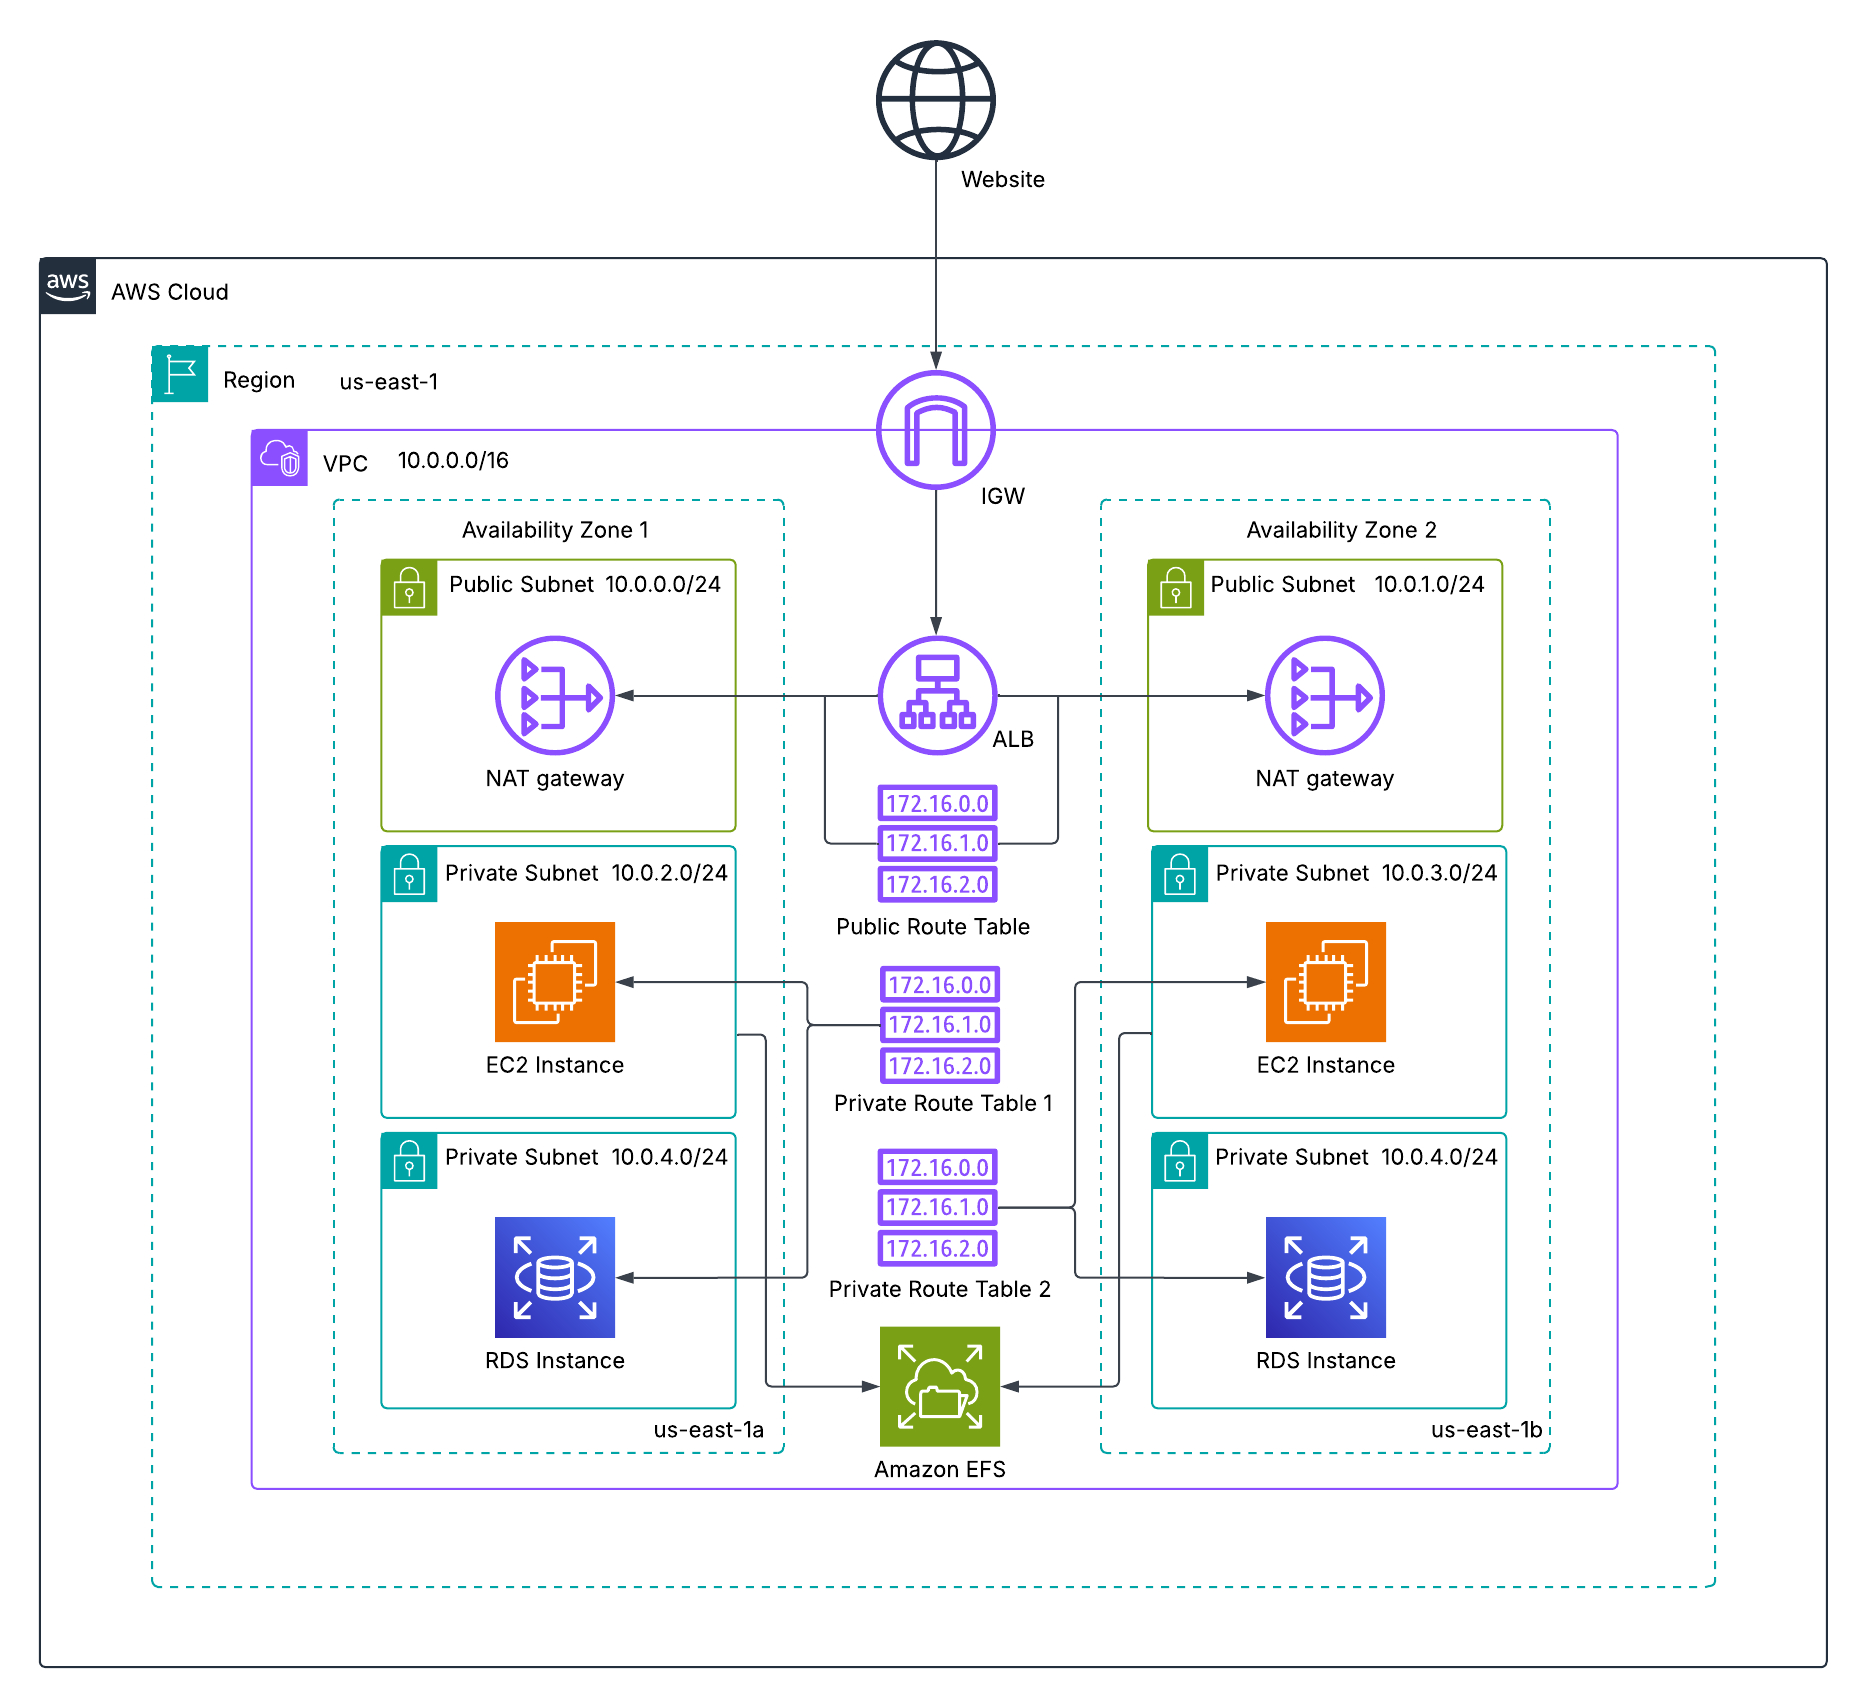
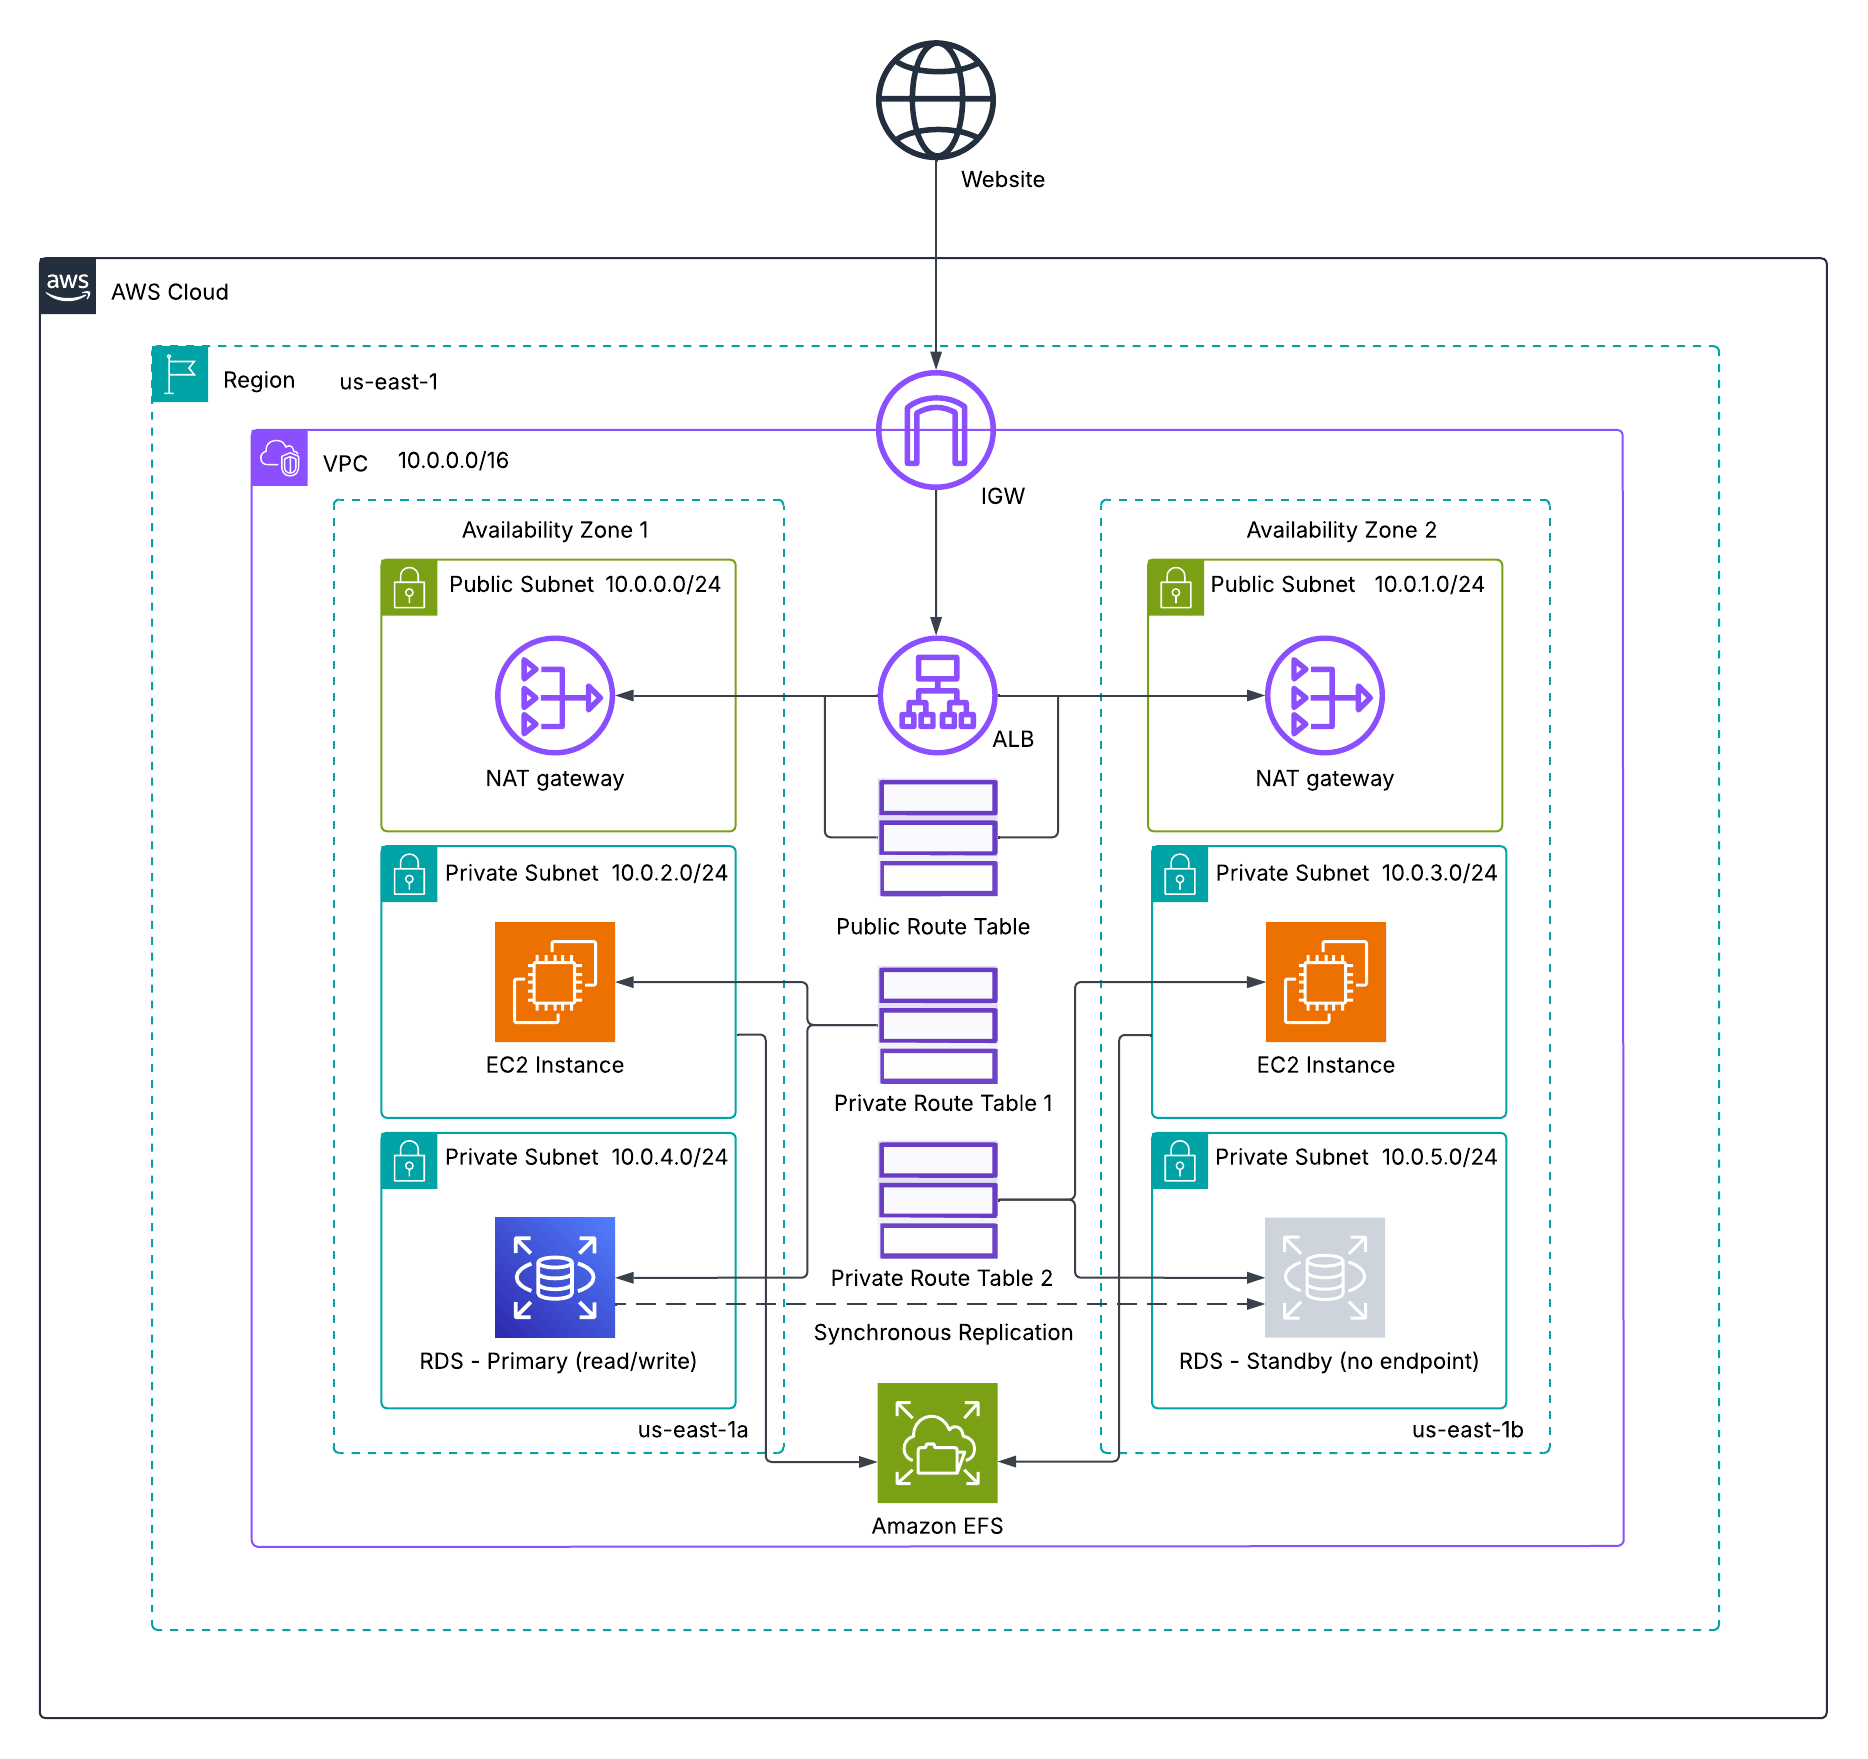
Add GitHub Actions, update IaC, update diagram, and update README.md

diff --git a/README.md b/README.md
@@ -1,24 +1,29 @@
-# AWS WordPress Three-Tier Website
+# AWS WordPress Three-Tier Website  
+ALB → EC2 + EFS + RDS (Multi-AZ); signals: 100% IaC, SSM-sourced secrets, no public DB access.  
+
 A cloud-native deployment of **WordPress** on AWS that demonstrates a highly available three-tier architecture. The project provisions an **Application Load Balancer (ALB)** fronting two EC2 application servers in private subnets, with shared content on **Amazon EFS** and data persisted in a **Multi-AZ RDS MySQL database**. All infrastructure is automated with nested CloudFormation stacks, following Infrastructure-as-Code best practices.  
 
 An optional **Bastion Host** can be deployed for secure SSH access to the private EC2 instances. If disabled, KeyPairs are still required for stack creation, but SSH will not be available without a Bastion Host.  
 
-## Architecture Overview
+[![infra-ci](https://github.com/patrick-heese/aws-wordpress-three-tier-website/actions/workflows/infra-ci.yml/badge.svg)](https://github.com/patrick-heese/aws-wordpress-three-tier-website/actions/workflows/infra-ci.yml)  
+
+## Architecture Overview  
 ![Architecture Diagram](assets/architecture-diagram.png)  
 *Figure 1: Architecture diagram of the WordPress Multi-Tier Application.*  
 
-- **Amazon VPC** – Custom networking with public/private subnets, route tables, and Internet Gateway (IGW).  
-- **Internet Gateway (IGW)** – Provides outbound internet access for **public** subnets (e.g., ALB, optional Bastion) and inbound access to the ALB.  
-- **NAT Gateway** – Enables **private** subnets (application servers, RDS) to initiate **outbound** internet connections (package updates, WordPress downloads, EFS utils, salts API) while remaining **inaccessible from the internet**.  
-- **Amazon EC2** – Two WordPress application servers deployed in **private** subnets.  
-- **Amazon Application Load Balancer (ALB)** – Public-facing load balancer distributing HTTP traffic to application servers.  
-- **Amazon EFS** – Shared storage for WordPress files across EC2 instances.  
-- **Amazon RDS (MySQL Multi-AZ)** – Highly available relational database backend for WordPress. RDS resides in private subnets and does not require internet egress.  
-- **Security Groups** – Enforcing least-privilege rules between ALB, application servers, database, and optional Bastion Host.  
-- **IAM Roles/Policies** – S3 bucket policy to allow CloudFormation to read nested templates.  
-- **Amazon S3** – Storing nested CloudFormation templates and deployment artifacts.  
+### Core Components  
+- **Amazon VPC** - Custom networking with public/private subnets, route tables, and Internet Gateway (IGW).  
+- **Internet Gateway (IGW)** - Provides outbound internet access for **public** subnets (e.g., ALB, optional Bastion) and inbound access to the ALB.  
+- **NAT Gateway** - Enables **private** subnets (application servers, RDS) to initiate **outbound** internet connections (package updates, WordPress downloads, EFS utils, salts API) while remaining **inaccessible from the internet**.  
+- **Amazon EC2** - Two WordPress application servers deployed in **private** subnets.  
+- **Amazon Application Load Balancer (ALB)** - Public-facing load balancer distributing HTTP traffic to application servers.  
+- **Amazon EFS** - Shared storage for WordPress files across EC2 instances.  
+- **Amazon RDS (MySQL Multi-AZ)** - Highly available relational database backend for WordPress. RDS resides in private subnets and does not require internet egress.  
+- **Security Groups** - Enforcing least-privilege rules between ALB, application servers, database, and optional Bastion Host.  
+- **IAM Roles/Policies** - S3 bucket policy to allow CloudFormation to read nested templates.  
+- **Amazon S3** - Storing nested CloudFormation templates and deployment artifacts.  
 
-## Skills Applied
+## Skills Applied  
 - Designing and deploying a **multi-tier WordPress application** on AWS.  
 - Building **nested CloudFormation templates** for modular, reusable infrastructure.  
 - Automating **EFS mounts and health checks** to ensure high availability.  
@@ -29,44 +34,56 @@ An optional **Bastion Host** can be deployed for secure SSH access to the privat
 - Using **UserData bootstrapping** for EC2 instances (Apache, PHP-FPM, WordPress install).  
 - Managing **S3 bucket policies** to enable CloudFormation nested stack access.  
 
-## Features
-- **Highly Available WordPress** – ALB distributes traffic across two EC2 instances.  
-- **Shared Storage** – Amazon EFS ensures both application servers use the same WordPress content directory.  
-- **Persistent Database Layer** – WordPress data is stored in an RDS MySQL backend.  
-- **Automated Bootstrap** – Application servers auto-install Apache, PHP-FPM, and WordPress at launch.  
-- **Optional Bastion Host** – Provides secure SSH access for troubleshooting if enabled.  
-- **Health Check Endpoint** – `/health` endpoint ensures ALB only routes traffic to healthy instances.  
+## Features  
+- **Highly Available WordPress** - ALB distributes traffic across two EC2 instances.  
+- **Shared Storage** - Amazon EFS ensures both application servers use the same WordPress content directory.  
+- **Persistent Database Layer** - WordPress data is stored in an RDS MySQL backend.  
+- **Automated Bootstrap** - Application servers auto-install Apache, PHP-FPM, and WordPress at launch.  
+- **Optional Bastion Host** - Provides secure SSH access for troubleshooting if enabled.  
+- **Health Check Endpoint** - `/health` endpoint ensures ALB only routes traffic to healthy instances.  
 
-## Tech Stack
+## Tech Stack  
 - **Languages:** PHP 8.4, Apache  
-- **AWS Services:** VPC, IGW, NAT Gateway, EC2, ALB, RDS (MySQL), EFS, S3, IAM
+- **AWS Services:** VPC, IGW, NAT Gateway, EC2, ALB, RDS (MySQL), EFS, S3, IAM  
 - **IaC Tool:** AWS CloudFormation (nested stacks)  
-- **Other Tools:** MySQL Client, AWS CLI
+- **Other Tools:** MySQL Client, AWS CLI  
 
-## Deployment Instructions
-> **Note:** All examples use `bash` syntax. If you are on Windows (PowerShell/Command Prompt), the commands remain the same.  
+## Deployment Instructions  
+> **Note:** Many commands are identical across shells; the main differences are line continuation (PowerShell: `` ` `` • Bash: `\` • cmd.exe: `^`), environment variables (PowerShell: `$env:NAME=...` • Bash: `NAME=...` • cmd.exe: `set NAME=...`), and path separators.  
 
-### CloudFormation
+> The `CAPABILITY_NAMED_IAM` flag is included for simplicity. It’s only strictly required if the templates create or modify IAM resources (e.g., when adding Secrets Manager access via an EC2 Instance Profile).  
+
+### CloudFormation  
 1. Clone this repository.  
 
 2. Deploy the `s3-bucket.yaml` template to create an S3 bucket for nested CloudFormation templates:  
-   ```bash
-   cd cloudformation
-   aws cloudformation deploy \
-   --stack-name wp-cfn-artifacts \
-   --template-file s3-bucket.yaml \
-   --parameter-overrides BucketName=<YOUR_BUCKET_NAME> AccountId=<YOUR_ACCOUNT_ID>
+    ```powershell
+    cd cloudformation
+    aws cloudformation deploy `
+    --stack-name wp-cfn-artifacts `
+    --template-file s3-bucket.yaml `
+    --parameter-overrides BucketName=<YOUR_BUCKET_NAME> AccountId=<YOUR_ACCOUNT_ID> `
+    --tags Project=aws-wordpress-three-tier-website
    ```
 
 3. Upload the nested CloudFormation templates to the S3 bucket:  
-	```bash
-	aws s3 cp phase1-networking.yaml s3://<YOUR_BUCKET_NAME>/cfn/
-	aws s3 cp phase2-security.yaml s3://<YOUR_BUCKET_NAME>/cfn/
-	aws s3 cp phase3-rds.yaml s3://<YOUR_BUCKET_NAME>/cfn/
-	aws s3 cp phase4-ec2.yaml s3://<YOUR_BUCKET_NAME>/cfn/
-	```
+    ```powershell
+    aws s3 cp phase1-networking.yaml s3://<YOUR_BUCKET_NAME>/cfn/
+    aws s3 cp phase2-security.yaml s3://<YOUR_BUCKET_NAME>/cfn/
+    aws s3 cp phase3-rds.yaml s3://<YOUR_BUCKET_NAME>/cfn/
+    aws s3 cp phase4-ec2.yaml s3://<YOUR_BUCKET_NAME>/cfn/
+    ```
 
-4. Edit the `params.json` and `parent-template.yaml` file to customize the deployment.  
+4. Create an SSM SecureString parameter for the DB master password:  
+    ```powershell
+    aws ssm put-parameter `
+    --name /wordpressthreetier/db/master_password `
+    --type SecureString `
+    --value 'Your_Password' `
+    --overwrite
+    ```
+
+5. Edit the `params.json` and `parent-template.yaml` files to customize the deployment.  
    - `KeyName` is the SSH key pair that will be used to SSH to the application servers for any additional configuration or troubleshooting. This can be created separately in the AWS Management Console under EC2 > Key Pairs. Key pairs are required by EC2 regardless of Bastion Host deployment. SSH access to the private EC2 instances requires enabling the Bastion Host.  
    - `CreateBastion` controls the Bastion Host Access. If `true`, a Bastion Host is deployed in a public subnet with restricted SSH access. If `false`, no Bastion Host is created.  
    - `AdminIp` is your public IP address. This is used to lockdown SSH access to the application servers and Bastion Host, allowing only traffic from your IP address.  
@@ -75,72 +92,74 @@ An optional **Bastion Host** can be deployed for secure SSH access to the privat
    - `Phase*TemplateURL` is the Object URL of each nested template (e.g., https://<YOUR_BUCKET_NAME>.s3.<YOUR_REGION>.amazonaws.com/cfn/phase1-networking.yaml).  
    - The default values for `VPCCidr`, `PublicSubnet1Cidr`, `PublicSubnet2Cidr`, `PrivateAppSubnet1Cidr`, `PrivateAppSubnet2Cidr`, `PrivateDBSubnet1Cidr`, and `PrivateDBSubnet2Cidr` can be edited in the `parent-template.yaml` file.  
 
-5. Deploy the CloudFormation stack:  
-	```bash
-	aws cloudformation deploy \
-	--stack-name wordpress-parent \
-	--template-file parent-template.yaml \
-	--parameter-overrides file://params.json \
-	--capabilities CAPABILITY_NAMED_IAM
-	```
-	
-**Note:** The `CAPABILITY_NAMED_IAM` flag is included for simplicity. It’s only strictly required if the templates create or modify IAM resources (e.g., when adding Secrets Manager access via an EC2 Instance Profile). Also, ensure the AWS CLI is configured (`aws configure`) with credentials that have sufficient permissions to manage **S3**, **EC2**, **RDS**, **EFS**, **VPCs**, **Subnets**, **Route Tables**, **NAT Gateways**, **IGW**, **Elastic IPs**, **ALB**, and **Security Groups**.  
+6. Deploy the CloudFormation stack:  
+    ```powershell
+    aws cloudformation deploy `
+    --stack-name wordpress-parent `
+    --template-file parent-template.yaml `
+    --parameter-overrides file://params.json `
+    --capabilities CAPABILITY_NAMED_IAM `
+    --tags Project=aws-wordpress-three-tier-website
+    ```
 
-## How to Use
+**Note:** Ensure the AWS CLI user (`aws configure`) or CloudFormation assumed role has sufficient permissions to manage **S3**, **EC2**, **RDS**, **EFS**, **VPCs**, **Subnets**, **Route Tables**, **NAT Gateways**, **IGW**, **Elastic IPs**, **ALB**, and **Security Groups**.  
+
+## How to Use  
 1. **Deploy the infrastructure** using CloudFormation.  
 
 2. **Open the WordPress installer** in your browser:  
     ```plaintext
-	http://<YOUR_ALB_DNS_Name>/wp-admin/install.php
-	```
-	
+    http://<YOUR_ALB_DNS_Name>/wp-admin/install.php
+    ```
+
 3. **Complete the WordPress setup wizard** in your browser.  
 
-4. **Log in to WordPress** to view the Admin Dashboard.
+4. **Log in to WordPress** to view the Admin Dashboard.  
 
 ## Project Structure  
 ```plaintext
 aws-wordpress-three-tier-website
-├── assets/                          	  # Images, diagrams, screenshots
+├── .github/                             
+│   └── workflows/                       
+│       └── infra-ci.yml                  # Caller workflow → reusable IaC Gate
+├── assets/                               # Images, diagrams, screenshots
 │   ├── architecture-diagram.png          # Project architecture diagram
 │   └── application-screenshot.png        # WordPress admin dashboard screenshot
 ├── cloudformation/                       # CloudFormation templates
-│   ├── parent-template.yaml          	  # Main CloudFormation template
+│   ├── parent-template.yaml              # Wires phases (nested stacks from S3 URLs)
 │   ├── phase1-networking.yaml            # Networking template
 │   ├── phase2-security.yaml              # Security template
 │   ├── phase3-rds.yaml                   # RDS template
 │   ├── phase4-ec2.yaml                   # EC2 template
 │   ├── params.json                       # Parameter values for CloudFormation
-│   └── s3-bucket.yaml				      # Template for S3 bucket to store nested templates
-├── LICENSE
-├── README.md
-└── .gitignore
+│   └── s3-bucket.yaml                    # Template for S3 bucket to store nested templates
+├── LICENSE                               
+├── README.md                             
+└── .gitignore                            
 ```  
 
-## Screenshot
+## Screenshot  
 ![WordPress Admin Dashboard UI](assets/application-screenshot.png)  
-
 *Figure 2: WordPress Admin Dashboard UI.*  
 
-## Future Enhancements
+## Future Enhancements  
 - **CI/CD Integration** with GitHub Actions or AWS CodePipeline for continuous delivery.  
 - **Auto Scaling Group** for application servers to dynamically adjust to traffic demand.  
-- **Secrets Management** using AWS Secrets Manager instead of parameter values for DB credentials.  
 - **HTTPS Termination** at the ALB with an ACM certificate for secure client traffic.  
 - **Monitoring & Alarms** via Amazon CloudWatch for EC2 health, RDS metrics, and application logs.  
 - **Cost Optimization** with reserved instances or savings plans for RDS.  
 
-## License
+## License  
 This project is licensed under the [MIT License](LICENSE).  
 
 ---
 
-## Author
+## Author  
 **Patrick Heese**  
 Cloud Administrator | Aspiring Cloud Engineer/Architect  
 [LinkedIn Profile](https://www.linkedin.com/in/patrick-heese/) | [GitHub Profile](https://github.com/patrick-heese)  
 
-## Acknowledgments
+## Acknowledgments  
 This project was inspired by a course from [techwithlucy](https://github.com/techwithlucy).  
 The architecture diagram included here is my own version, adapted from the original course diagram.  
-I designed and developed all Infrastructure-as-Code (CloudFormation) and project documentation.  
+I designed and developed all Infrastructure as Code (CloudFormation) and project documentation.  
